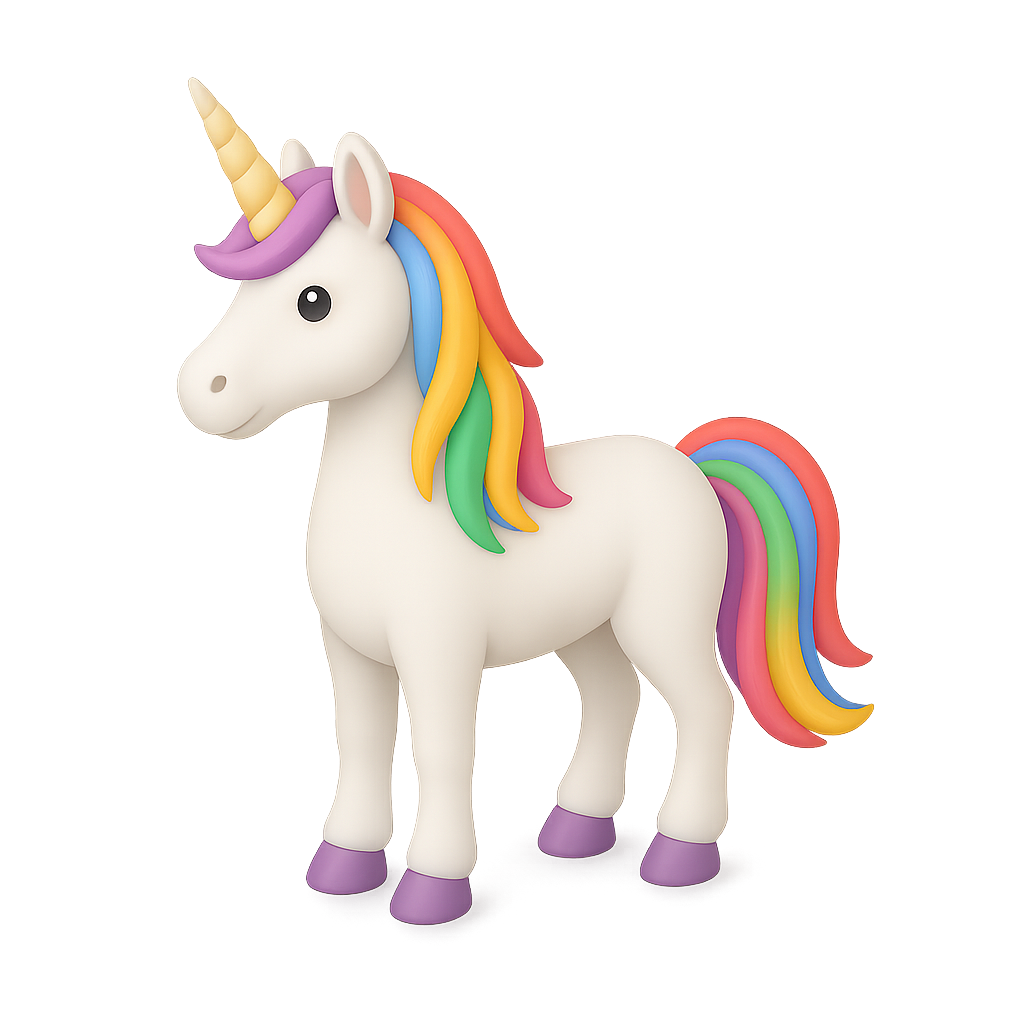
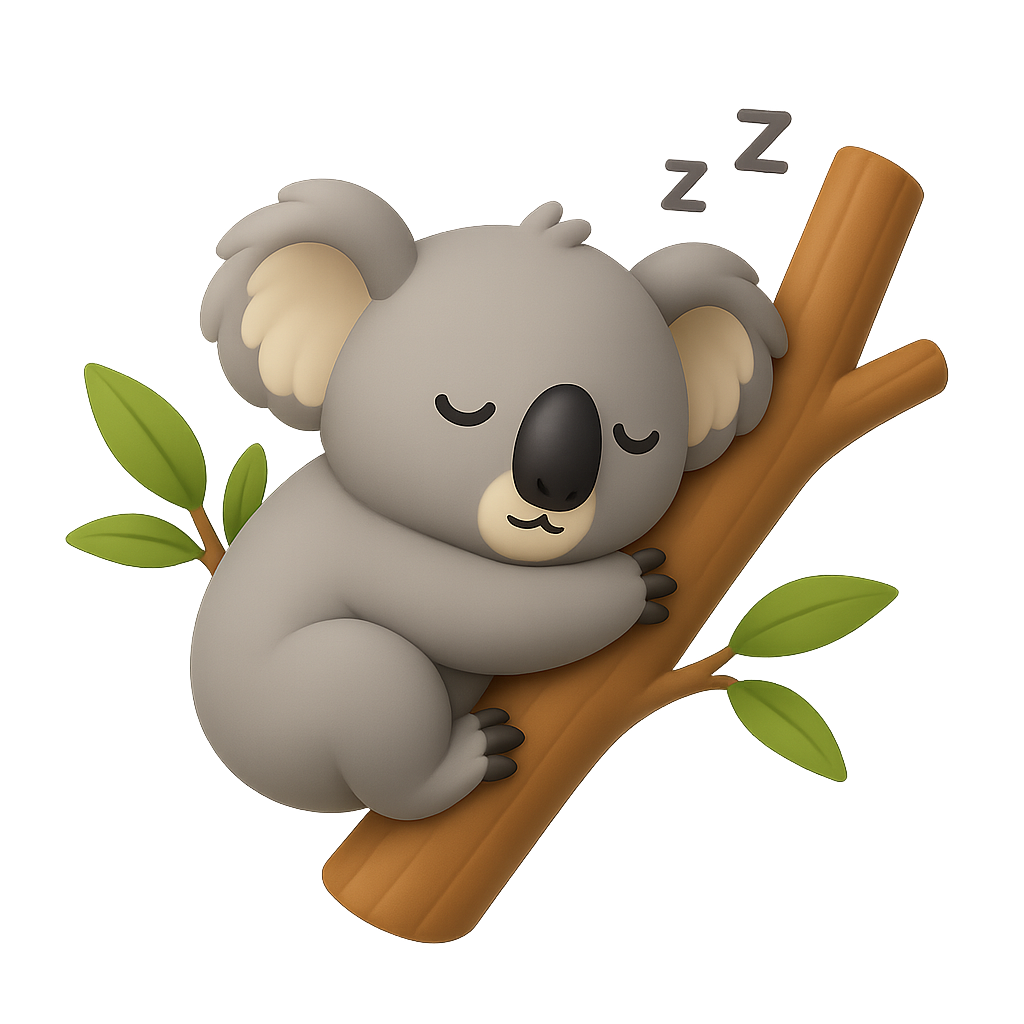
报告与 AI 路由调整，移除开发测试路由
- src/lib/report.ts / src/lib/ai.ts 报告生成与 AI 路由逻辑调整
- 更新应用图标 public/icon.png
- 删除 src/app/api/dev-test 开发测试路由（本地作为测试环境）

diff --git a/src/lib/report.ts b/src/lib/report.ts
@@ -71,11 +71,16 @@ function buildPrompt(
   curLabel: string,
   prevLabel: string,
 ): string {
+  const curMin = Math.round(cur.breastSeconds / 60);
+  const prevMin = Math.round(prev.breastSeconds / 60);
   return [
-    `以下是可可（婴儿）的喂养记录对比，请写 2~3 句中文总结：先说本期概况，再对比${prevLabel}的变化，最后给一句贴心建议。`,
-    `${curLabel}：${linesFor(cur)}。`,
-    `${prevLabel}：${linesFor(prev)}。`,
-    "数字保持准确，不要编造数据。",
+    `可可（婴儿）的喂养记录对比。${curLabel}：母乳 ${cur.breastCount} 次 ${curMin} 分钟，奶瓶 ${cur.bottleCount} 次 ${cur.bottleMl}ml（奶粉 ${cur.formulaMl}ml、母乳 ${cur.breastMl}ml），便便 ${cur.stoolCount} 次。`,
+    `${prevLabel}：母乳 ${prev.breastCount} 次 ${prevMin} 分钟，奶瓶 ${prev.bottleCount} 次 ${prev.bottleMl}ml（奶粉 ${prev.formulaMl}ml、母乳 ${prev.breastMl}ml），便便 ${prev.stoolCount} 次。`,
+    `写 2~3 句中文，给家人看的。要求：`,
+    `1. 先算好变化（次数/时长/奶量的增减），用一句概括最值得注意的变化，变化大时直接说"明显变多/变少"，并提醒是否需要留意；`,
+    `2. 禁止逐项罗列数字，禁止出现括号补充说明；正文里最多出现 2 个具体数字；`,
+    `3. 像家人说话一样自然温暖，最后一句给实用建议（如有异常信号优先提醒观察精神状态、尿量等）。`,
+    `示例风格："可可今天吃得比昨天少了不少，奶量和亲喂时长都减半了，便便也少了。小婴儿偶尔一天吃得少不用太紧张，先观察精神状态和小便次数，如果明天还是这么少，或者精神不好，就要上心一点了。"`,
   ].join("\n");
 }
 

diff --git a/src/lib/ai.ts b/src/lib/ai.ts
@@ -25,7 +25,7 @@ export async function aiSummarize(prompt: string): Promise<string | null> {
           {
             role: "system",
             content:
-              "你是育儿记录助手，根据喂养数据写简短温暖的中文总结。只输出总结正文，不要标题、不要列表符号。",
+              "你是家庭育儿助手，根据喂养数据对比写简短、自然、温暖的中文总结。像家人聊天，不要像报表。禁止逐项罗列数字，禁止使用括号补充，不要标题和列表符号。",
           },
           { role: "user", content: prompt },
         ],
